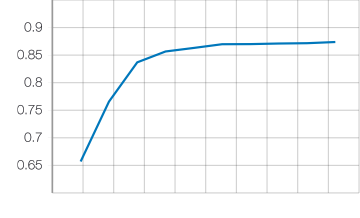
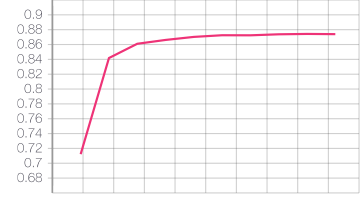
Updated documentation

Changed region(s): [[0.0306, 0.0275, 1.0, 0.8532], [0.1528, 0.7982, 1.0, 0.8257], [0.1528, 0.055, 1.0, 0.0826]]

diff --git a/README.md b/README.md
@@ -1,11 +1,11 @@
 # Classification of IT support tickets using LSTM
-Oct. 2019
+
 
 - Jean-Marc Orliaguet, jmo@chalmers.se 
 - Andreas Jonassson, andreas@chalmers.se 
 - Mahsa Eshtehardi, mahsae@chalmers.se
 
-IT-Office, Chalmers University of Technology
+IT-Office, Chalmers University of Technology, Oct. 2019
 
 
 ## Background
@@ -93,7 +93,7 @@ address: 34881
 
 ```
 
-# Accuracy
+## Accuracy
 
 Validation and test accuracy is 87-88%
 
@@ -120,17 +120,34 @@ project                                               text
 
 ...
 
+Train on 92263 samples, validate on 10252 samples
+Epoch 1/10
+92263/92263 [==============================] - 672s 7ms/step - loss: 1.4293 - accuracy: 0.5798 - val_loss: 0.9567 - val_accuracy: 0.7123
+Epoch 2/10
+92263/92263 [==============================] - 669s 7ms/step - loss: 0.8154 - accuracy: 0.7654 - val_loss: 0.6098 - val_accuracy: 0.8418
+Epoch 3/10
+92263/92263 [==============================] - 650s 7ms/step - loss: 0.5575 - accuracy: 0.8490 - val_loss: 0.5318 - val_accuracy: 0.8610
+Epoch 4/10
+92263/92263 [==============================] - 620s 7ms/step - loss: 0.4584 - accuracy: 0.8744 - val_loss: 0.5000 - val_accuracy: 0.8662
+Epoch 5/10
+92263/92263 [==============================] - 621s 7ms/step - loss: 0.3947 - accuracy: 0.8901 - val_loss: 0.4931 - val_accuracy: 0.8703
+Epoch 6/10
+92263/92263 [==============================] - 619s 7ms/step - loss: 0.3488 - accuracy: 0.9029 - val_loss: 0.4876 - val_accuracy: 0.8725
+Epoch 7/10
+92263/92263 [==============================] - 620s 7ms/step - loss: 0.3191 - accuracy: 0.9107 - val_loss: 0.4913 - val_accuracy: 0.8724
+Epoch 8/10
+92263/92263 [==============================] - 621s 7ms/step - loss: 0.2908 - accuracy: 0.9175 - val_loss: 0.5034 - val_accuracy: 0.8738
 Epoch 9/10
-92263/92263 [==============================] - 610s 7ms/step - loss: 0.2833 - accuracy: 0.9188 - val_loss: 0.5100 - val_accuracy: 0.8716
+92263/92263 [==============================] - 616s 7ms/step - loss: 0.2700 - accuracy: 0.9222 - val_loss: 0.5113 - val_accuracy: 0.8743
 Epoch 10/10
-92263/92263 [==============================] - 608s 7ms/step - loss: 0.2569 - accuracy: 0.9263 - val_loss: 0.5171 - val_accuracy: 0.8738
-10252/10252 [==============================] - 33s 3ms/step
+92263/92263 [==============================] - 620s 7ms/step - loss: 0.2508 - accuracy: 0.9275 - val_loss: 0.5400 - val_accuracy: 0.8740
+10252/10252 [==============================] - 16s 2ms/step
 Test set
-  Loss: 0.517
+  Loss: 0.540
   Accuracy: 0.874
 ```
 
-# References
+## References
 
 - J.Brownlee, How to Develop a Bidirectional LSTM For Sequence Classification in Python with Keras, June. 2017. https://machinelearningmastery.com/develop-bidirectional-lstm-sequence-classification-python-keras/
 - J.Brownlee, How to Clean Text for Machine Learning with Python, Aug. 2019. https://machinelearningmastery.com/clean-text-machine-learning-python/
